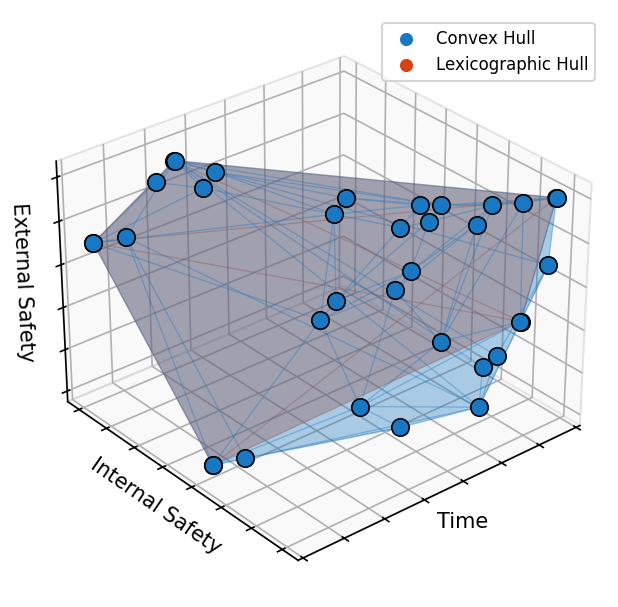
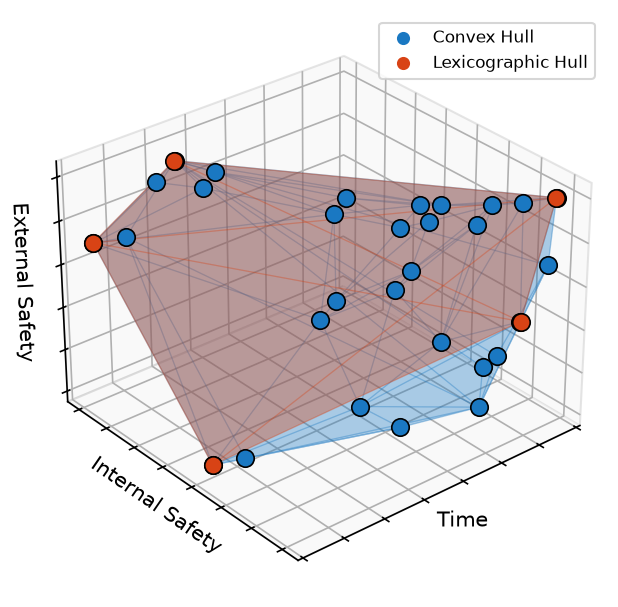
Hull Plots

diff --git a/Plots/HullPlotter3D.py b/Plots/HullPlotter3D.py
@@ -6,7 +6,7 @@ from mpl_toolkits.mplot3d.art3d import Poly3DCollection
 # ══════════════════════════════════════════════════════════════════════════════
 # CHANGE THIS to generate plots for a different environment
 # Options: 'ADS', 'DST', 'DSTc', 'DSTm', 'RG'
-ENV = 'RG'
+ENV = 'DST'
 # ══════════════════════════════════════════════════════════════════════════════
 
 # ── Environment data ──────────────────────────────────────────────────────────
@@ -256,6 +256,12 @@ def make_fig():
     fig.patch.set_facecolor('white')
     proj = '3d' if is_3d else None
     ax   = fig.add_subplot(111, projection=proj)
+    if is_3d:
+        # Honor draw order instead of matplotlib's depth-based re-sorting, so the
+        # LexHull (drawn last) always renders on top of the Convex Hull -- gives
+        # the same layering across environments (otherwise the larger CHVI hull
+        # sorts in front and hides the LexHull, as happens for ADS).
+        ax.computed_zorder = False
     return fig, ax
 
 # ── Plot 1: CHVI only ─────────────────────────────────────────────────────────
